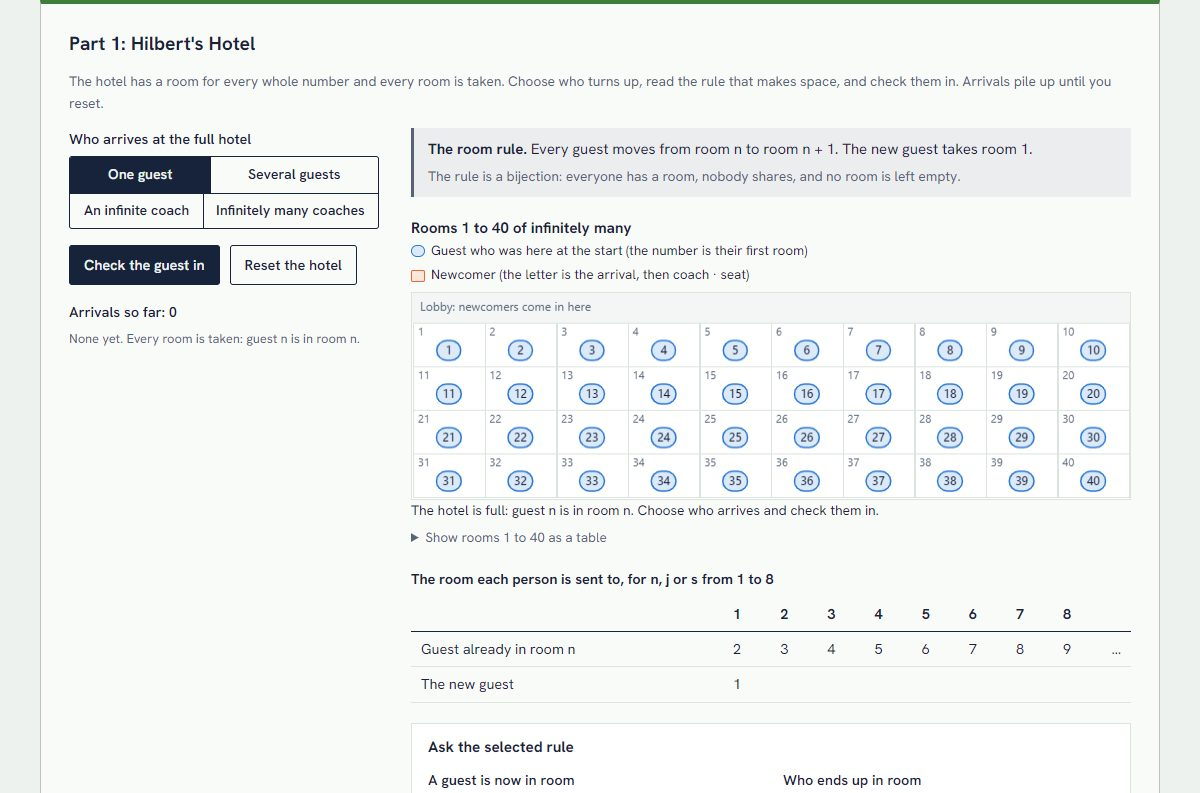
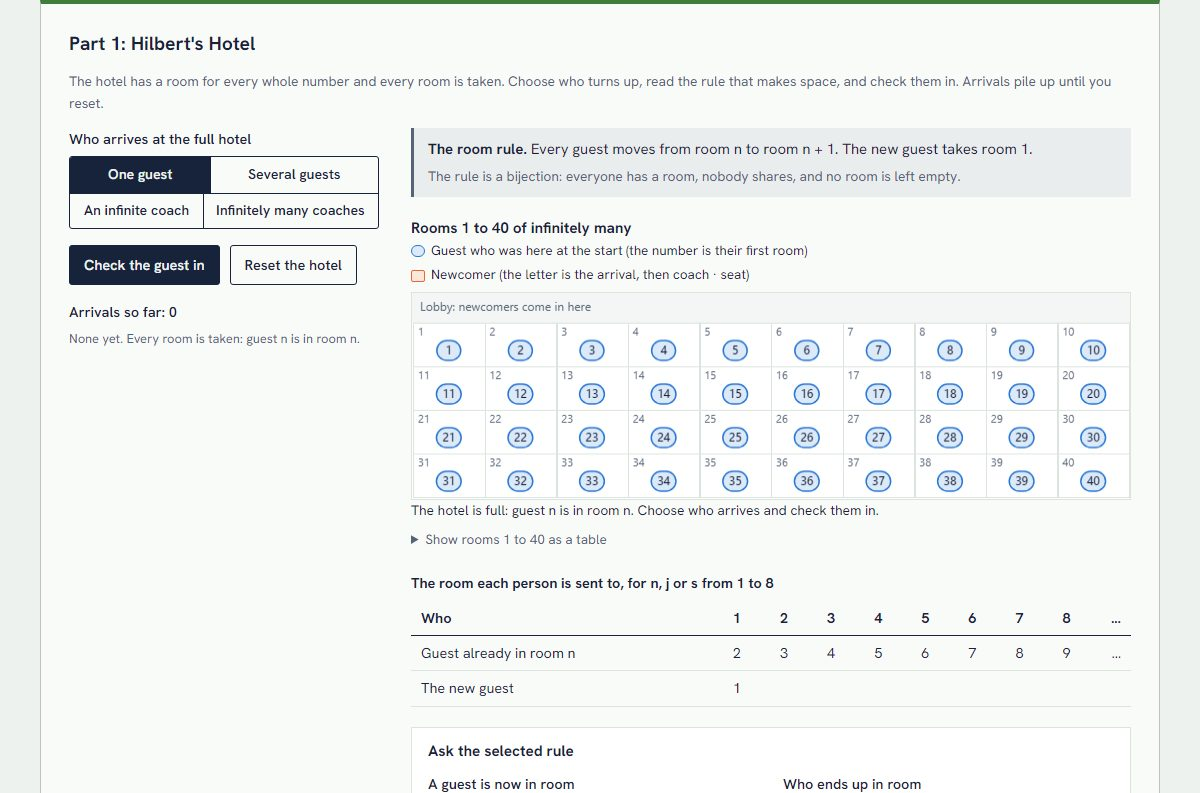
Review project 23: explain guests beyond room 40, announce answers, correct history

diff --git a/365projects/23/index.html b/365projects/23/index.html
@@ -57,9 +57,9 @@
     <section class="p-sec">
       <h2>The idea</h2>
       <p>How do you compare the sizes of two collections that never end? Counting is no use. Galileo noticed in 1638 that the whole numbers can be paired off one-to-one with their squares, 1 with 1, 2 with 4, 3 with 9, although most numbers are not squares, and concluded that "more" and "fewer" make no sense for the infinite. Georg Cantor drew the opposite conclusion in the 1870s. Pairing <em>is</em> what "the same size" means: two sets are equally large when their members can be matched one-to-one with nothing left over on either side.</p>
-      <p>Hilbert's Hotel is that definition turned into a story. David Hilbert used it in lectures in the 1920s and George Gamow made it famous in 1947. The hotel has a room for every whole number and every room is occupied. A new guest arrives, and the manager asks everyone to move up one room. A coach with infinitely many passengers arrives, and everyone moves to double their room number. Infinitely many such coaches arrive, and there is still a rule that works. In each case the guests plus the newcomers can be matched exactly with the rooms. Richard Dedekind had turned this oddity into a definition in 1888: a set is infinite exactly when it can be matched with a part of itself. Sets that can be matched with the whole numbers are called countable.</p>
+      <p>Hilbert's Hotel is that definition turned into a story. David Hilbert introduced it in a lecture in the mid-1920s that he never published, and George Gamow's popular book of 1947 made it widely known. The hotel has a room for every whole number and every room is occupied. A new guest arrives, and the manager asks everyone to move up one room. A coach with infinitely many passengers arrives, and everyone moves to double their room number. Infinitely many such coaches arrive, and there is still a rule that works. In each case the guests plus the newcomers can be matched exactly with the rooms. Richard Dedekind had turned this oddity into a definition in 1888: a set is infinite exactly when it can be matched one-to-one with a proper part of itself, a part that leaves something out. Sets that can be matched with the whole numbers are called countable.</p>
       <p>The hotel suggests that every infinity is the same size. Cantor's diagonal argument of 1891 shows that it is not so. Take the infinite sequences of 0s and 1s and suppose someone hands you a list of them, one for each whole number. Go down the diagonal, flipping each digit, and you have written a sequence that differs from the first row in its first digit, from the second in its second, and so on for ever. It is not in the list. The list was arbitrary, so no list contains them all: the sequences are uncountable, a strictly larger infinity than the rooms of the hotel.</p>
-      <p>This matters beyond set theory. Alan Turing used the same diagonal move in 1936 to show that some questions about programs cannot be decided by any program. There are only countably many programs, descriptions and proofs, and uncountably many sequences, so almost every sequence can never be described at all. And the hotel's rearrangements are a standing problem for anyone who adds up welfare over an endless future: an infinite stream of good and bad years can be reshuffled to look better without changing a single year, which is why Peter Diamond could show in 1965 that treating all generations equally clashes with other requirements that look harmless.</p>
+      <p>This matters beyond set theory. Alan Turing used the same diagonal move in 1936 to show that some questions about programs cannot be decided by any program. There are only countably many programs, descriptions and proofs, and uncountably many sequences, so almost every sequence can never be described at all. And the hotel's rearrangements are a standing problem for anyone who adds up welfare over an endless future: an infinite stream of good and bad years can be reshuffled to look better without changing a single year. Peter Diamond showed in 1965 that, for such streams, treating all generations equally cannot be combined with two other requirements that look harmless: that a stream counts as better when some generation is better off and none is worse off, and that small changes make only small differences.</p>
     </section>
 
     <section class="p-sec">
@@ -70,7 +70,7 @@
       <p>The last rule is Cantor's pairing function. Treat the guests already in the hotel as coach 0, so that everyone is a pair (<var>c</var>, <var>s</var>) with <var>c</var> ≥ 0 and <var>s</var> ≥ 1. Arrange the pairs in a grid and number them along the diagonals on which <var>c</var> + <var>s</var> is constant. The diagonals before the one with <var>c</var> + <var>s</var> = <var>t</var> hold 1 + 2 + … + (<var>t</var> − 1) = (<var>t</var> − 1)<var>t</var> ÷ 2 pairs, and within a diagonal the pairs are taken in order of seat, which gives the formula. With <var>c</var> = 0 it reduces to <var>n</var>(<var>n</var> + 1) ÷ 2.</p>
       <p>All four rules are bijections, not merely injections: every person gets a room, no two people share, and no room is left empty. The page holds each rule together with its inverse. To find who gets room <var>m</var> under the pairing rule it finds the largest <var>w</var> with <var>w</var>(<var>w</var> + 1) ÷ 2 below <var>m</var>, sets <var>s</var> = <var>m</var> − <var>w</var>(<var>w</var> + 1) ÷ 2 and <var>c</var> = <var>w</var> + 1 − <var>s</var>. The tests apply a rule and then its inverse to thousands of rooms and people and check that each comes back to where it started.</p>
       <h3>Arrivals in a row</h3>
-      <p>Arrivals accumulate. To say who is in room <var>m</var> after several of them the page walks backwards: the latest rule's inverse says either that the room went to one of its newcomers, or that it went to whoever was in some room <var>n</var> before, in which case the question is asked again of the arrival before that. The labels on the picture record the result. A plain number is the room that guest started in. A letter marks a newcomer and the arrival they came with, followed by a seat, or by coach · seat.</p>
+      <p>Arrivals accumulate, up to twelve before a reset, which is as many as the page has letters to label them with. To say who is in room <var>m</var> after several of them the page walks backwards: the latest rule's inverse says either that the room went to one of its newcomers, or that it went to whoever was in some room <var>n</var> before, in which case the question is asked again of the arrival before that. The labels on the picture record the result. A plain number is the room that guest started in. A letter marks a newcomer and the arrival they came with, followed by a seat, or by coach · seat. Only the first 40 rooms are drawn. Guests sent to a higher room slide off the edge of the picture, and the line under it says which rooms they went to.</p>
       <h3>The lists</h3>
       <p>A list assigns an infinite sequence to every row number. The page builds one in layers: any rows you type, each a finite pattern repeated for ever, followed by rows from a formula. The formula gives digit <var>j</var> of generated row <var>i</var> for every <var>i</var> and <var>j</var>, so every row is infinitely long and there are infinitely many rows, although only a corner is drawn. "Counting in binary" writes <var>i</var> − 1 in binary, lowest digit first, and so lists every sequence with finitely many 1s. "Every repeating pattern" runs through 0, 1, 00, 01, 10, 11, 000 … and repeats each, so some sequences appear more than once, which does no harm. "Multiples" puts a 1 where <var>i</var> divides <var>j</var>. "Coin flips" draws each digit from a seeded generator.</p>
       <h3>The diagonal</h3>
@@ -87,7 +87,7 @@
         <li><strong>That the real numbers are uncountable, quite yet.</strong> The argument here is about sequences of digits. Real numbers between 0 and 1 are almost the same thing in binary, but not quite, because 0.0111… and 0.1000… are one number written two ways. Closing that gap takes one more step, which the page does not show.</li>
         <li><strong>Anything a window cannot.</strong> The page draws at most twenty digits of twenty rows and can check one row at a time. The theorem is about every row at once. It holds because of the argument, not because any amount of checking was done.</li>
         <li><strong>Whether completed infinities exist.</strong> Both halves treat an infinite hotel and an infinite list as finished objects. Mathematicians in the constructive tradition accept the diagonal as a recipe, given a list, here is a sequence outside it, but dispute that this makes one infinity "bigger" than another.</li>
-        <li><strong>What lies between the two sizes.</strong> Whether some set is larger than the whole numbers and smaller than the set of sequences is the continuum hypothesis. Gödel and Cohen showed that the usual axioms of set theory can neither prove nor refute it.</li>
+        <li><strong>What lies between the two sizes.</strong> Whether some set is larger than the whole numbers and smaller than the set of sequences is the continuum hypothesis. Gödel in 1940 and Cohen in 1963 showed between them that the usual axioms of set theory, if they are consistent, can neither prove nor refute it.</li>
         <li><strong>How to move infinitely many guests.</strong> A rule tells each guest where to go. Whether infinitely many moves can all be carried out is the question raised on day 5, and the hotel assumes it away.</li>
         <li><strong>What a typical sequence looks like.</strong> Every row on the page comes from a short rule, because nothing else can be typed or computed. The counting argument says that almost all sequences have no finite description, so the page can never display one of the sequences that make the set uncountable.</li>
       </ul>
@@ -112,9 +112,9 @@
         <li>Galilei, G. (1638). <em>Discorsi e dimostrazioni matematiche intorno a due nuove scienze</em>.</li>
         <li>Dedekind, R. (1888). <em>Was sind und was sollen die Zahlen?</em></li>
         <li>Gamow, G. (1947). <em>One Two Three … Infinity</em>. Viking Press.</li>
-        <li>Kragh, H. (2014). The true (?) story of Hilbert's infinite hotel. arXiv preprint.</li>
-        <li>Turing, A. M. (1936). On computable numbers, with an application to the Entscheidungsproblem. <em>Proceedings of the London Mathematical Society</em>.</li>
-        <li>Diamond, P. A. (1965). The evaluation of infinite utility streams. <em>Econometrica</em>.</li>
+        <li>Kragh, H. (2014). The true (?) story of Hilbert's infinite hotel. arXiv:1403.0059.</li>
+        <li>Turing, A. M. (1936-37). On computable numbers, with an application to the Entscheidungsproblem. <em>Proceedings of the London Mathematical Society</em>, Series 2, 42, 230-265.</li>
+        <li>Diamond, P. A. (1965). The evaluation of infinite utility streams. <em>Econometrica</em>, 33(1), 170-177.</li>
       </ul>
     </section>
   </main>

diff --git a/365projects/23/app.js b/365projects/23/app.js
@@ -72,16 +72,17 @@ const kindSeg = segmented({
 const kS = slider({ label: "Number of new guests, k", min: 2, max: 20, step: 1, value: hotel.k, format: fmt.int, onInput: (v) => { hotel.k = v; drawRule(); } });
 const checkBtn = button("Check them in", checkIn, { primary: true });
 const resetHotelBtn = button("Reset the hotel", () => { mover.stop(); hotel.anim = null; hotel.history = []; drawHotelState("The hotel is back to its first evening: full, with guest n in room n."); });
-const capHint = el("div", { class: "hint" });
+const capHint = el("div", { class: "hint", role: "status" });
 const logBox = el("div", { class: "field" });
 
 const askN = numberField({ label: "A guest is now in room", min: 1, max: MAX_NUMBER, step: 1, value: 7 });
 const askSeat = numberField({ label: "A passenger is in seat", min: 1, max: MAX_NUMBER, step: 1, value: 3 });
 const askCoach = numberField({ label: "of coach", min: 1, max: MAX_NUMBER, step: 1, value: 2 });
 const askM = numberField({ label: "Who ends up in room", min: 1, max: MAX_NUMBER, step: 1, value: 12 });
-const ansN = el("p", { class: "small answer" });
-const ansNew = el("p", { class: "small answer" });
-const ansM = el("p", { class: "small answer" });
+// Each answer changes as its box is typed in, so it is announced to screen readers as well as shown.
+const ansN = el("p", { class: "small answer", "aria-live": "polite" });
+const ansNew = el("p", { class: "small answer", "aria-live": "polite" });
+const ansM = el("p", { class: "small answer", "aria-live": "polite" });
 for (const f of [askN, askSeat, askCoach, askM]) f.input.addEventListener("input", drawAsk);
 
 const hotelControls = el("div", { class: "controls" },
@@ -190,7 +191,12 @@ function checkIn() {
   }
   mover.stop();
   hotel.anim = reducedMotion() ? null : { tokens, a: 0 };
-  drawHotelState(`Arrival ${LETTERS[hotel.history.length - 1]}: ${KIND_TEXT[a.kind].done(a.k)}`);
+  // The guests who leave the picture have not left the hotel: say which rooms they went to.
+  const first = tokens.find((t) => t.from != null && t.to > ROOMS).from;   // every rule moves the guest in the last room drawn beyond it
+  const gone = first === ROOMS
+    ? `The guest who was in room ${ROOMS} is now in room ${fmt.int(moveGuest(a, ROOMS))}`
+    : `The guests who were in rooms ${first} to ${ROOMS} are now in rooms numbered from ${fmt.int(moveGuest(a, first))} up to ${fmt.int(moveGuest(a, ROOMS))}`;
+  drawHotelState(`Arrival ${LETTERS[hotel.history.length - 1]}: ${KIND_TEXT[a.kind].done(a.k)} ${gone}, further along the corridor than the ${ROOMS} rooms drawn here.`);
   if (hotel.anim) mover.start();
 }
 
@@ -228,7 +234,7 @@ function drawRule() {
 
   // Who gets which room, for the first eight of everybody.
   const N = 8;
-  const cols = [{ key: "who", label: "" }, ...Array.from({ length: N }, (_, i) => ({ key: `c${i + 1}`, label: String(i + 1), num: true })), { key: "more", label: "", num: true }];
+  const cols = [{ key: "who", label: "Who" }, ...Array.from({ length: N }, (_, i) => ({ key: `c${i + 1}`, label: String(i + 1), num: true })), { key: "more", label: "…", num: true }];
   const line = (who, f, endless) => {
     const row = { who, more: endless ? "…" : "" };
     for (let i = 1; i <= N; i++) { const m = f(i); row[`c${i}`] = m == null ? "" : fmt.int(m); }
